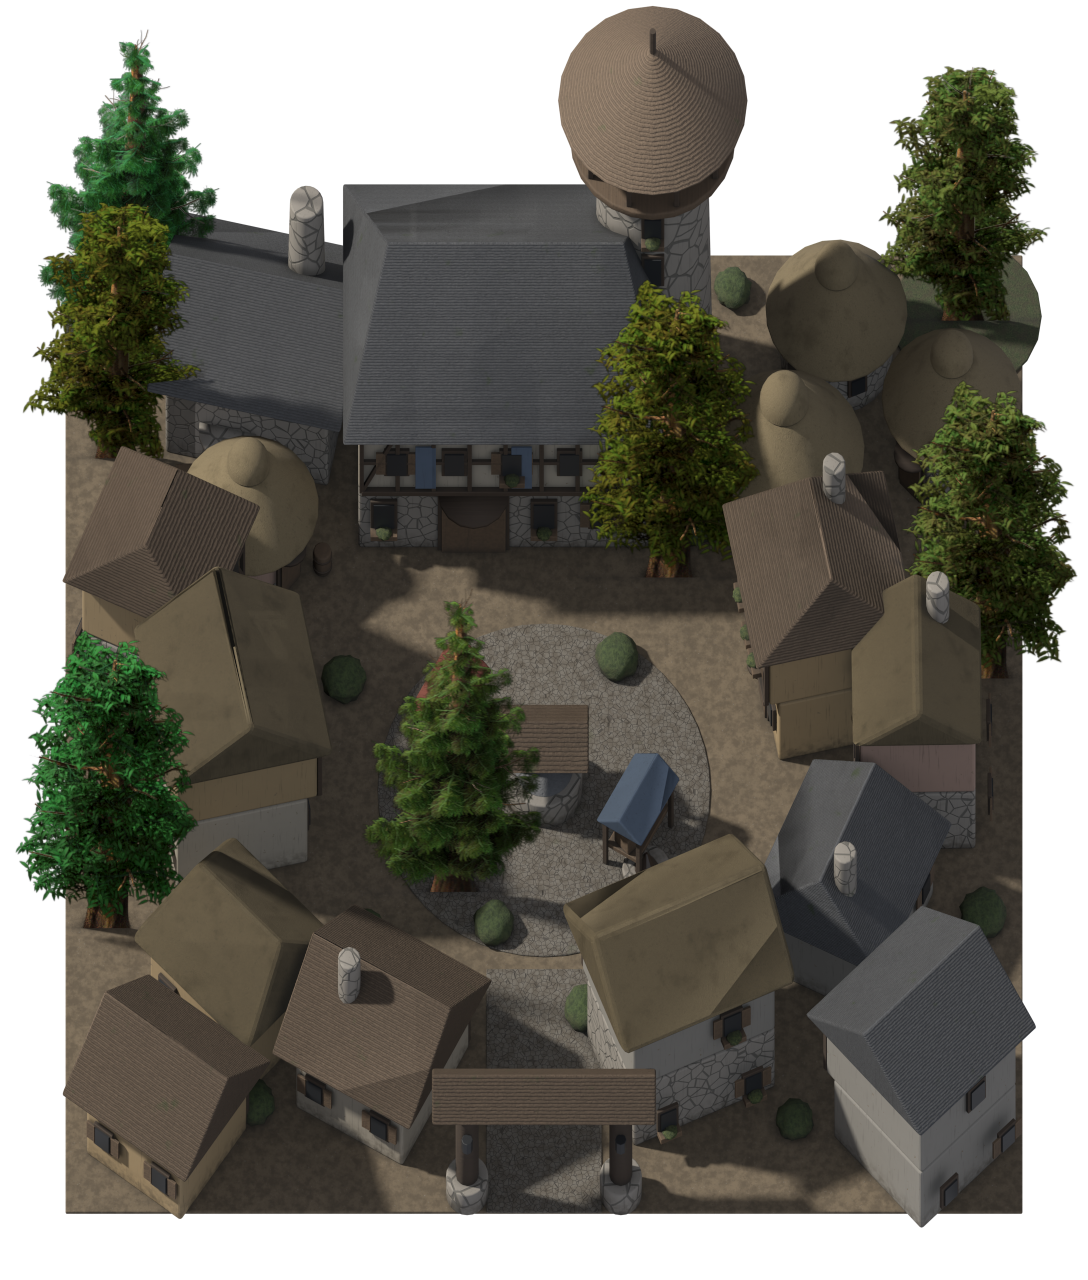
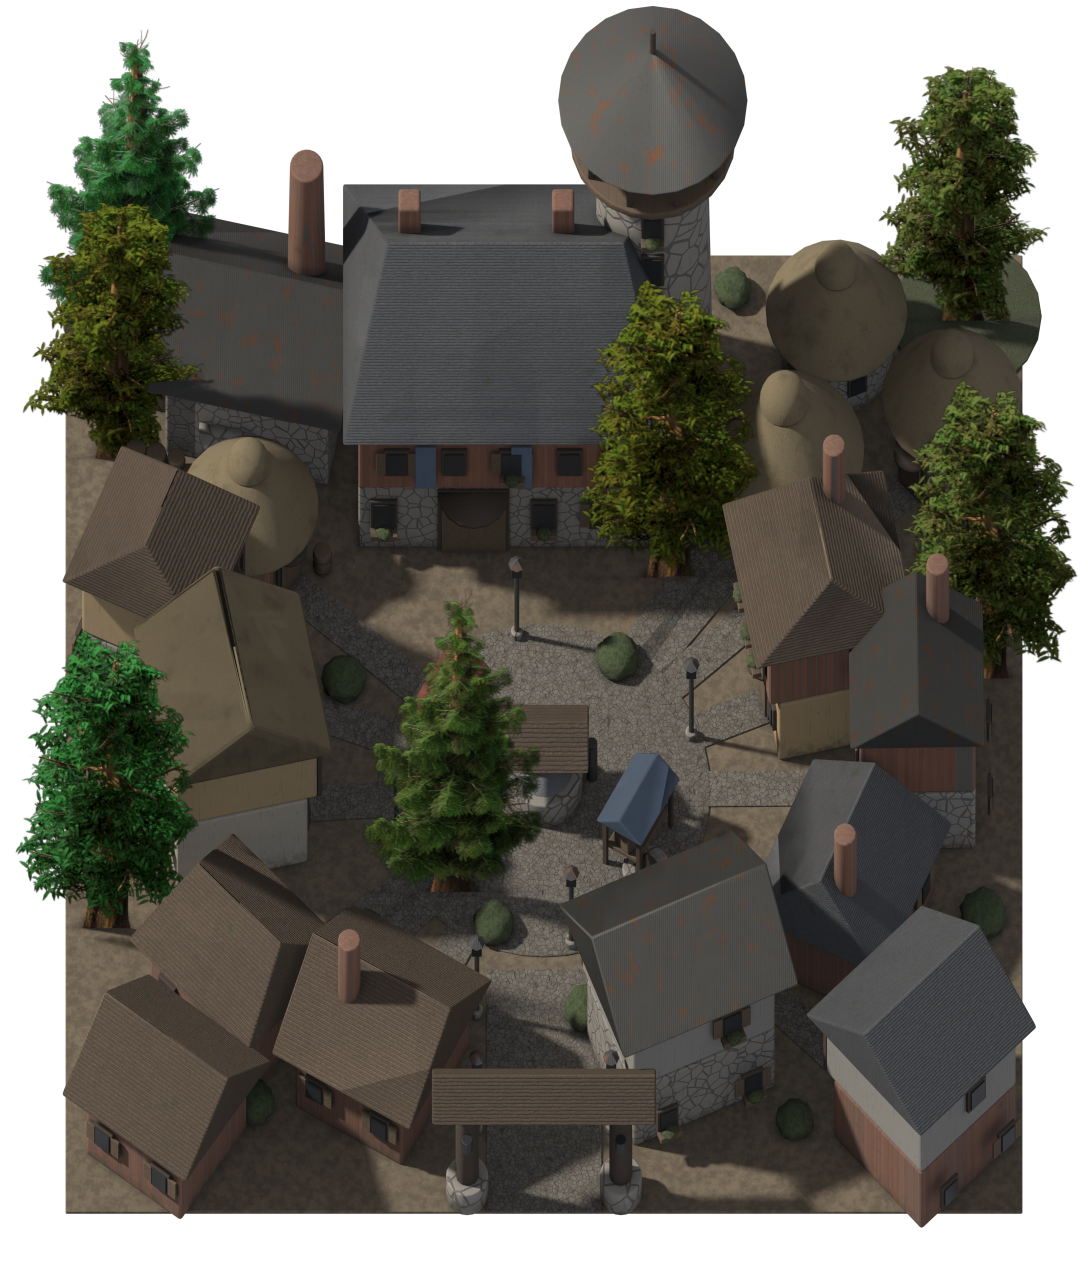
feat: vzhled radnice 2 – dílny (cihly, plech, lampy, dlážděné cesty)
Claude-Session: https://claude.ai/code/session_01NAMWsnMZJNsTjQY1Ye9sjg

diff --git a/blender/rt_hall.py b/blender/rt_hall.py
@@ -45,10 +45,12 @@ class Builder:
     """Skládá díly modelu do kolekce pod společný kořen (natažení osy Y v rt_render.root).
     matrix = aktuální transformace místních souřadnic stavby (Builder.at)."""
 
-    def __init__(self, collection, parent, mats):
+    def __init__(self, collection, parent, mats, variant=1):
         self.collection = collection
         self.parent = parent
         self.mats = mats
+        #: Vzhled 1 (osada) … 5 (město vědy) – díly podle něj mění materiály a vybavení.
+        self.variant = variant
         self.count = 0
         self.matrix = Matrix.Identity(4)
 
@@ -214,6 +216,14 @@ def tree(b, x, y, rng):
     rt_trees.billboard(b.collection, p.x, p.y * math.sqrt(2.0), rng)
 
 
+def lamp_post(b, x, y):
+    """Olejová lampa na železném sloupu (od vzhledu 2): sloup, rameno, svítící lucerna se stříškou."""
+    b.cylinder("RT_LampBase", (x, y, 0.06), 0.1, 0.15, "stone", segments=10)
+    b.cylinder("RT_LampPost", (x, y, 0.2), 0.04, 1.35, "iron", segments=8, bevel=0)
+    b.box("RT_Lamp", (x, y, 1.45), (0.16, 0.16, 0.22), "window", bevel=0.01)
+    b.cylinder("RT_LampCap", (x, y, 1.66), 0.13, 0.1, "iron", top_radius=0.02, segments=8, bevel=0)
+
+
 def bush(b, x, y, rng):
     """Keř."""
     b.blob("RT_Bush", (x, y, 0.2), rng.uniform(0.22, 0.38), "foliage", rng, squash=0.7)
@@ -232,12 +242,34 @@ def props(b, sx, face, door_x, rng):
 # ---------------------------------------------------------------------------------------------------- stavby
 
 
-def house(b, rng, sx, sy):
-    """Středověký dům sx × sy se středem v počátku: 1–2 patra, kamenné nebo omítnuté přízemí, hrázděné
-    vyložené patro, střecha z došků, šindele nebo břidlice, okna s okenicemi, dveře, komín, sudy."""
+def upgraded_wall(b, mat, up):
+    """Zeď podle vzhledu: od vzhledu 2 část omítnutých zdí nahradí cihly (up = generátor vylepšení domu –
+    stejný pro všechny vzhledy, takže co jednou zcihlovatělo, zůstane cihlové)."""
+    roll = up.random()
+    if mat in PLASTERS and b.variant >= 2 and roll < 0.45:
+        return "brick"
+    return mat
+
+
+def upgraded_roof(b, roof, up):
+    """Střecha podle vzhledu: od vzhledu 2 část doškových střech nahradí vlnitý plech, část šindel."""
+    roll = up.random()
+    if roof == "thatch" and b.variant >= 2:
+        if roll < 0.45:
+            return "corrugated"
+        if roll < 0.7:
+            return "shingle"
+    return roof
+
+
+def house(b, rng, sx, sy, up):
+    """Dům sx × sy se středem v počátku: 1–2 patra, kamenné, omítnuté nebo (od vzhledu 2) cihlové přízemí,
+    hrázděné vyložené patro, střecha z došků, šindele, břidlice nebo plechu, okna s okenicemi, dveře, komín.
+    rng = tvar domu (stejný ve všech vzhledech), up = vylepšení podle vzhledu."""
     two = rng.random() < 0.6
     floor_h = rng.uniform(1.25, 1.45)
-    ground_mat = "stone_wall" if rng.random() < 0.45 else rng.choice(PLASTERS)
+    ground_base = "stone_wall" if rng.random() < 0.45 else rng.choice(PLASTERS)
+    ground_mat = upgraded_wall(b, ground_base, up)
     b.box("RT_House", (0, 0, 0.04), (sx, sy, floor_h), ground_mat)
     face = -sy / 2
     top = 0.04 + floor_h
@@ -245,13 +277,20 @@ def house(b, rng, sx, sy):
     if two:
         jetty = rng.uniform(0.1, 0.2)
         upper_h = rng.uniform(1.1, 1.3)
-        b.box("RT_Upper", (0, -jetty / 2, top), (sx, sy + jetty, upper_h), rng.choice(PLASTERS))
-        timber_frame(b, -sx / 2 + 0.05, sx / 2 - 0.05, face - jetty, top, top + upper_h, rng)
+        upper_mat = upgraded_wall(b, rng.choice(PLASTERS), up)
+        b.box("RT_Upper", (0, -jetty / 2, top), (sx, sy + jetty, upper_h), upper_mat)
+        if upper_mat != "brick":
+            timber_frame(b, -sx / 2 + 0.05, sx / 2 - 0.05, face - jetty, top, top + upper_h, rng)
+        else:
+            rng.random()  # stejná spotřeba náhody jako hrázdění – další detaily domu zůstanou jako u osady
         for wx in (-sx * 0.25, sx * 0.25):
             window(b, wx, face - jetty, top + 0.35, rng)
         top += upper_h
-    elif ground_mat != "stone_wall":
-        timber_frame(b, -sx / 2 + 0.05, sx / 2 - 0.05, face, 0.1, top, rng)
+    elif ground_base in PLASTERS:
+        if ground_mat in PLASTERS:
+            timber_frame(b, -sx / 2 + 0.05, sx / 2 - 0.05, face, 0.1, top, rng)
+        else:
+            rng.random()  # viz výše
     door_x = rng.uniform(-sx * 0.25, sx * 0.25)
     door(b, door_x, face, w=rng.uniform(0.42, 0.55), h=rng.uniform(0.8, 0.95))
     for wx in (-sx * 0.33, sx * 0.33):
@@ -263,23 +302,24 @@ def house(b, rng, sx, sy):
             window(b, wx, -sy / 2 - (jetty if two else 0.0), 0.55, rng, w=0.26, h=0.34)
         if two:
             window(b, rng.uniform(-sx * 0.2, sx * 0.2), -sy / 2, top - 0.75, rng, w=0.28, h=0.38)
-    roof = pick(rng, ROOFS)
+    roof = upgraded_roof(b, pick(rng, ROOFS), up)
     roof_h = sy * rng.uniform(0.4, 0.55)
     hip = rng.uniform(0.3, 0.8) if rng.random() < 0.35 else 0.0
     b.gable("RT_Roof", (0, -jetty / 2, top), (sx, sy + jetty), roof_h, roof, ridge="x", hip=hip,
             overhang=rng.uniform(0.15, 0.3))
     if rng.random() < 0.6:
         cx = rng.choice((-1, 1)) * sx * rng.uniform(0.2, 0.35)
-        b.cylinder("RT_Chimney", (cx, sy * 0.15, top - 0.3), 0.18, roof_h + 0.7,
-                   "stone" if rng.random() < 0.6 else "stone_wall", segments=12)
+        chimney = "stone" if rng.random() < 0.6 else "stone_wall"
+        b.cylinder("RT_Chimney", (cx, sy * 0.15, top - 0.3), 0.18, roof_h + 0.7 + (0.4 if b.variant >= 2 else 0.0),
+                   "brick" if b.variant >= 2 else chimney, segments=12)
     props(b, sx, face, door_x, rng)
 
 
-def roundhouse(b, rng, r):
-    """Kulatá chýše místních o poloměru zdi r: kamenná nebo omítnutá válcová zeď, kuželová došková střecha
-    se zaobleným vrcholem, dveře a okénko na čele."""
+def roundhouse(b, rng, r, up):
+    """Kulatá chýše místních o poloměru zdi r: kamenná, omítnutá nebo (od vzhledu 2) cihlová válcová zeď,
+    kuželová došková střecha se zaobleným vrcholem (místní tradice zůstává), dveře a okénka po obvodu."""
     wall_h = rng.uniform(1.0, 1.3)
-    wall = "stone_wall" if rng.random() < 0.5 else rng.choice(PLASTERS)
+    wall = upgraded_wall(b, "stone_wall" if rng.random() < 0.5 else rng.choice(PLASTERS), up)
     b.cylinder("RT_RoundWall", (0, 0, 0.04), r, wall_h, wall, segments=24)
     if wall != "stone_wall":
         b.cylinder("RT_RoundBase", (0, 0, 0.04), r + 0.03, 0.3, "stone_wall", segments=24)
@@ -303,8 +343,16 @@ def smithy(b, rng):
     sx, sy = 2.6, 2.4
     b.box("RT_Smithy", (0, 0, 0.04), (sx, sy, 1.6), "stone_wall")
     face = -sy / 2
-    b.gable("RT_SmithyRoof", (0, 0, 1.64), (sx, sy), 1.1, "slate", ridge="x")
-    b.cylinder("RT_Chimney", (0.6, 0.5, 1.0), 0.32, 2.8, "stone", top_radius=0.26)
+    dilny = b.variant >= 2
+    b.gable("RT_SmithyRoof", (0, 0, 1.64), (sx, sy), 1.1, "corrugated" if dilny else "slate", ridge="x")
+    b.cylinder("RT_Chimney", (0.6, 0.5, 1.0), 0.32, 3.6 if dilny else 2.8, "brick" if dilny else "stone",
+               top_radius=0.26)
+    if dilny:
+        # Dílny: přístavek s plechovou stříškou a sudy oleje.
+        b.box("RT_Shed", (-sx / 2 - 0.5, 0.2, 0.04), (0.9, 1.6, 1.0), "planks")
+        b.gable("RT_ShedRoof", (-sx / 2 - 0.5, 0.2, 1.04), (0.9, 1.6), 0.3, "corrugated", ridge="y", overhang=0.1)
+        for i in range(3):
+            barrel(b, -sx / 2 - 0.4 + i * 0.32, -sy / 2 - 0.3, random.Random(77 + i))
     b.box("RT_Forge", (-0.3, face - 0.05, 0.3), (0.7, 0.08, 0.5), "fire", bevel=0)
     b.cylinder("RT_ForgeArch", (-0.3, face - 0.02, 0.78), 0.45, 0.1, "stone", segments=16, bevel=0)
     b.box("RT_Anvil", (0.6, face - 0.45, 0.06), (0.35, 0.18, 0.3), "slate", bevel=0.02)
@@ -316,11 +364,19 @@ def research_hall(b, rng):
     """Badatelna: dvoupatrová kamenná budova s hrázděným patrem, vraty, prapory a kulatou věží
     s vyhlídkou, lucernou a kuželovou stříškou (rotor)."""
     sx, sy = 4.6, 3.4
+    dilny = b.variant >= 2
     b.box("RT_HallStone", (0, 0, 0.04), (sx, sy, 1.6), "stone_wall")
-    b.box("RT_HallUpper", (0, -0.1, 1.64), (sx, sy + 0.2, 1.3), "plaster")
+    b.box("RT_HallUpper", (0, -0.1, 1.64), (sx, sy + 0.2, 1.3), "brick" if dilny else "plaster")
     face = -sy / 2
-    timber_frame(b, -sx / 2 + 0.05, sx / 2 - 0.05, face - 0.2, 1.64, 2.94, rng)
+    if dilny:
+        rng.random()  # stejná spotřeba náhody jako hrázdění
+        b.box("RT_HallCornice", (0, -0.1, 2.9), (sx + 0.1, sy + 0.3, 0.12), "stone")
+    else:
+        timber_frame(b, -sx / 2 + 0.05, sx / 2 - 0.05, face - 0.2, 1.64, 2.94, rng)
     b.gable("RT_HallRoof", (0, -0.1, 2.94), (sx, sy + 0.2), 1.6, "slate", ridge="x", hip=0.7)
+    if dilny:
+        for cx in (-1.5, 0.9):
+            b.box("RT_HallChimney", (cx, 0.4, 2.6), (0.35, 0.35, 2.2), "brick")
     door(b, -0.5, face, w=1.0, h=1.25)
     for wx in (-1.9, 0.6, 1.5):
         window(b, wx, face, 0.6, rng, w=0.32, h=0.5)
@@ -340,8 +396,8 @@ def research_hall(b, rng):
               (0.08, 0.08, 0.7), "wood_beam", bevel=0.01)
     b.cylinder("RT_DeckRail", (tx, ty, 6.2), tr + 0.28, 0.07, "wood_beam", segments=24, bevel=0)
     b.cylinder("RT_Lantern", (tx, ty, 5.58), 0.32, 0.5, "window", segments=12, bevel=0.02)
-    rotor = b.cylinder("RT_Hall_Rotor", (tx, ty, 6.25), tr + 0.55, 1.1, "shingle", top_radius=0.06, segments=24,
-                       bevel=0.04)
+    rotor = b.cylinder("RT_Hall_Rotor", (tx, ty, 6.25), tr + 0.55, 1.1, "corrugated" if dilny else "shingle",
+                       top_radius=0.06, segments=24, bevel=0.04)
     rotor.name = "RT_Hall_Rotor"
     b.cylinder("RT_Spire", (tx, ty, 7.3), 0.05, 0.5, "wood_beam", segments=8, bevel=0)
 
@@ -356,6 +412,16 @@ def square(b, rng):
     for side in (-1, 1):
         b.box("RT_WellPost", (cx + side * 0.5, cy, 0.06), (0.1, 0.1, 1.15), "wood_beam", bevel=0.01)
     b.gable("RT_WellRoof", (cx, cy, 1.2), (1.2, 0.9), 0.4, "shingle", ridge="x", overhang=0.1)
+    if b.variant >= 2:
+        # Dílny: železná ruční pumpa u studny a olejové lampy kolem náměstí a podél ulice.
+        b.cylinder("RT_Pump", (cx + 0.75, cy + 0.2, 0.06), 0.09, 0.8, "iron", segments=10)
+        b.box("RT_PumpArm", (cx + 0.75, cy + 0.05, 0.75), (0.06, 0.4, 0.06), "iron", bevel=0.01)
+        for angle in (20, 100, 200, 280):
+            a = math.radians(angle)
+            lamp_post(b, cx + math.cos(a) * (SQUARE_R - 0.15), cy + math.sin(a) * (SQUARE_R - 0.15))
+        for ly in (-4.4, -6.2):
+            for lx in (-1.05, 1.05):
+                lamp_post(b, lx, ly)
     for angle, cloth in ((150, "cloth_red"), (330, "cloth_blue")):
         a = math.radians(angle)
         with b.at(cx + math.cos(a) * 1.7, cy + math.sin(a) * 1.7, a + math.pi / 2):
@@ -398,9 +464,10 @@ def gate(b, rng):
 
 def build(collection, parent, mats, variant=1):
     """Postaví celý areál radnice daného vzhledu. Vrátí počet dílů."""
-    b = Builder(collection, parent, mats)
+    b = Builder(collection, parent, mats, variant)
     b.box("RT_Plaza", (0, 0, 0), (2 * HALF - 0.05, 2 * HALF - 0.05, 0.06), "earth", bevel=0.04)
-    rng = random.Random(1000 * variant)
+    # Pevné seedy (ne podle vzhledu): město ve všech vzhledech stejně rozložené, mění se jen vybavení.
+    rng = random.Random(1000)
     with b.at(-0.6, 4.6):
         research_hall(b, rng)
     with b.at(-4.4, 5.3, math.radians(-12)):
@@ -430,7 +497,7 @@ OVERLAP = 0.45
 
 def place_houses(b, variant, occupied):
     """Zaplní areál domy a chýšemi: náhodná místa, stavba čelem k náměstí, jen kde je volno. Vrátí počet."""
-    rng = random.Random(7919 * variant)
+    rng = random.Random(7919)
     cx, cy = SQUARE
     count = 0
     for _ in range(PLACE_ATTEMPTS):
@@ -447,17 +514,33 @@ def place_houses(b, variant, occupied):
         y = rng.uniform(-HALF + radius * 0.75, HALF - radius * 0.75)
         if any(math.hypot(x - ox, y - oy) < radius + orad - OVERLAP for ox, oy, orad in occupied):
             continue
-        local = random.Random(1000 * variant + count + 1)
+        local = random.Random(1001 + count)
+        up = random.Random(5001 + count)
         # Čelo stavby k náměstí, s malou náhodnou odchylkou.
         facing = math.atan2(cy - y, cx - x) + math.pi / 2 + local.uniform(-0.25, 0.25)
         with b.at(x, y, facing):
             if round_hut:
-                roundhouse(b, local, wall_r)
+                roundhouse(b, local, wall_r, up)
             else:
-                house(b, local, sx, sy)
+                house(b, local, sx, sy, up)
+        if b.variant >= 2:
+            cobbled_path(b, x, y, radius)
         occupied.append((x, y, radius))
         count += 1
     return count
+
+
+def cobbled_path(b, x, y, radius):
+    """Dlážděná cestička od domu (x, y) k okraji náměstí (od vzhledu 2)."""
+    cx, cy = SQUARE
+    dx, dy = cx - x, cy - y
+    dist = math.hypot(dx, dy)
+    start, end = radius * 0.55, dist - SQUARE_R + 0.15
+    if end <= start:
+        return
+    mid = (start + end) / 2
+    with b.at(x + dx / dist * mid, y + dy / dist * mid, math.atan2(dy, dx)):
+        b.box("RT_Path", (0, 0, 0.06), (end - start, 0.55, 0.025), "cobble", bevel=0.01)
 
 
 def fill_greenery(b, rng, occupied):

diff --git a/blender/rt_materials.py b/blender/rt_materials.py
@@ -29,6 +29,10 @@ PALETTE = {
     "hay": (0.30, 0.23, 0.10),
     "cloth_red": (0.22, 0.07, 0.05),
     "cloth_blue": (0.07, 0.10, 0.15),
+    "brick": (0.20, 0.085, 0.05),
+    "metal": (0.085, 0.085, 0.08),
+    "iron": (0.06, 0.06, 0.062),
+    "rust": (0.17, 0.065, 0.025),
     "glass_off": (0.02, 0.022, 0.025),
     "fire": (1.0, 0.45, 0.12),
     "window": (1.0, 0.68, 0.32),
@@ -264,6 +268,46 @@ def shingles(name, base, scale=9.0):
     return mat
 
 
+def brick(name="RT_Brick", base=None):
+    """Cihlové zdivo: vazba cihel (Brick Texture), tmavá malta, každá cihla jiný odstín, okoralé hrany."""
+    base = base or PALETTE["brick"]
+    mat, nt, bsdf = _new(name)
+    coords, crevice, edge = _masks(nt)
+    tex = nt.nodes.new("ShaderNodeTexBrick")
+    tex.inputs["Scale"].default_value = 9.0
+    tex.inputs["Mortar Size"].default_value = 0.025
+    tex.inputs["Color1"].default_value = (*base, 1.0)
+    tex.inputs["Color2"].default_value = (*(c * 0.72 for c in base), 1.0)
+    tex.inputs["Mortar"].default_value = (0.09, 0.085, 0.075, 1.0)
+    nt.links.new(coords, tex.inputs["Vector"])
+    soot = ramp(nt, noise(nt, coords, 3.0), 0.6, 0.8)
+    color = mix(nt, math(nt, "MULTIPLY", soot, 0.4), tex.outputs["Color"], GRIME)
+    _finish(nt, bsdf, color, crevice, grime=0.6)
+    _bump(nt, bsdf, math(nt, "SUBTRACT", 1.0, tex.outputs["Fac"]), 0.6)
+    return mat
+
+
+def corrugated(name="RT_Corrugated", base=None):
+    """Vlnitý plech: vlny po spádu, zašlý zinek se skvrnami rzi a stékajícími šmouhami."""
+    base = base or PALETTE["metal"]
+    mat, nt, bsdf = _new(name)
+    coords, crevice, edge = _masks(nt)
+    wave = nt.nodes.new("ShaderNodeTexWave")
+    wave.wave_type = "BANDS"
+    wave.bands_direction = "X"
+    wave.wave_profile = "SIN"
+    wave.inputs["Scale"].default_value = 30.0
+    nt.links.new(coords, wave.inputs["Vector"])
+    rust = ramp(nt, noise(nt, coords, 4.0, detail=8.0), 0.55, 0.7)
+    streaks = ramp(nt, noise(nt, coords, 6.0, stretch=(8.0, 8.0, 0.4)), 0.6, 0.75)
+    color = mix(nt, math(nt, "MULTIPLY", wave.outputs["Fac"], 0.25), base, tuple(c * 1.25 for c in base))
+    color = mix(nt, math(nt, "ADD", rust, math(nt, "MULTIPLY", streaks, 0.5), clamp=True), color, PALETTE["rust"])
+    _finish(nt, bsdf, color, crevice, grime=0.5, roughness=0.6)
+    bsdf.inputs["Metallic"].default_value = 0.4
+    _bump(nt, bsdf, wave.outputs["Fac"], 0.5)
+    return mat
+
+
 def foliage(name="RT_Foliage", base=None, dark=None, scale=6.0):
     """Listí, keře, tráva: shluky lístků (šum) s tmavými mezerami a světlejšími okraji."""
     base, dark = base or PALETTE["foliage"], dark or PALETTE["foliage_dark"]
@@ -333,6 +377,9 @@ def library():
         "hay": thatch(),
         "cloth_red": cloth("RT_ClothRed", PALETTE["cloth_red"]),
         "cloth_blue": cloth("RT_ClothBlue", PALETTE["cloth_blue"]),
+        "brick": brick(),
+        "corrugated": corrugated(),
+        "iron": corrugated("RT_Iron", PALETTE["iron"]),
         "earth": packed_earth(),
         "window": glow("RT_Window", PALETTE["window"]),
         "fire": glow("RT_Fire", PALETTE["fire"], base=(0.03, 0.02, 0.015)),
